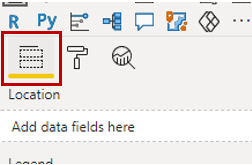
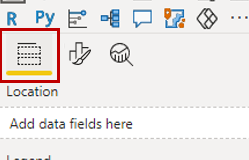
updated walkthrough with new screenshots

diff --git a/content/handson/powerbi1/content/workshoppbi1.md b/content/handson/powerbi1/content/workshoppbi1.md
@@ -109,8 +109,8 @@ We want our dashboard to look like a cohesive whole with the data being the prim
 	1. Open the **City Summary tooltip tab** at the bottom of the page, you can see that the page size is much larger than the content.  
 	2. Left click once in the whitespace of the workspace to select,   
     3. In the _Visualization_ panel ensure the **format** option is selected,  
-	![Visualization panel, format option](img/outlier1.PNG)  
-	4. Open the **Page size** dropdown and change the type from **‘Letter’** to **‘Tooltip’**.  
+	![Visualization panel, format option](img/maptooltip.PNG)  
+	4. Open the **Canvas settings** dropdown and change the type from **‘Letter’** to **‘Tooltip’**.  
 	![Page size options](img/map2.PNG)  
 	The workspace should have snapped to your content size.  
 5. Now when you return to the _Map / UX_ tab at the bottom of your screen, when you **mouse-over** a data point it should look something like: 
